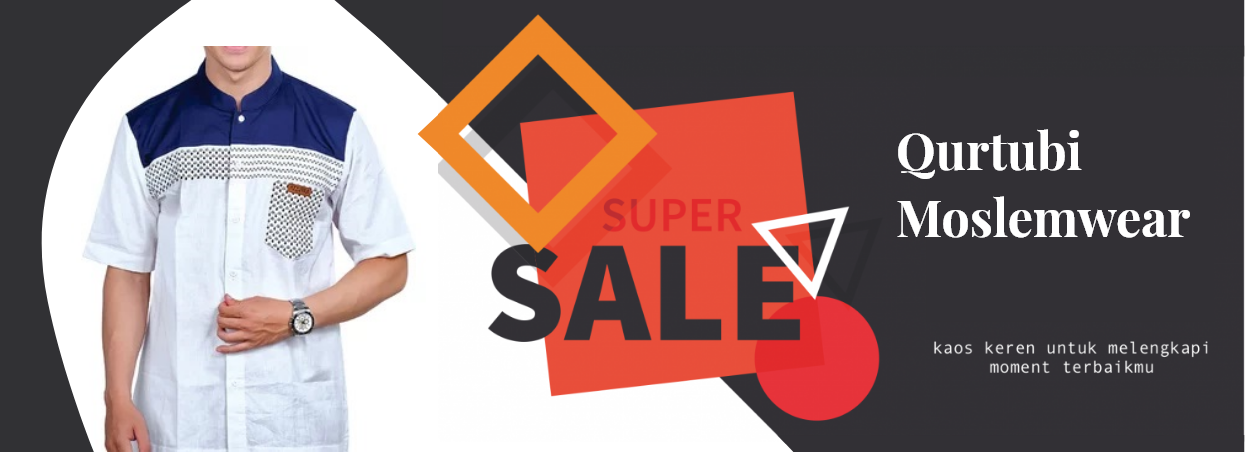
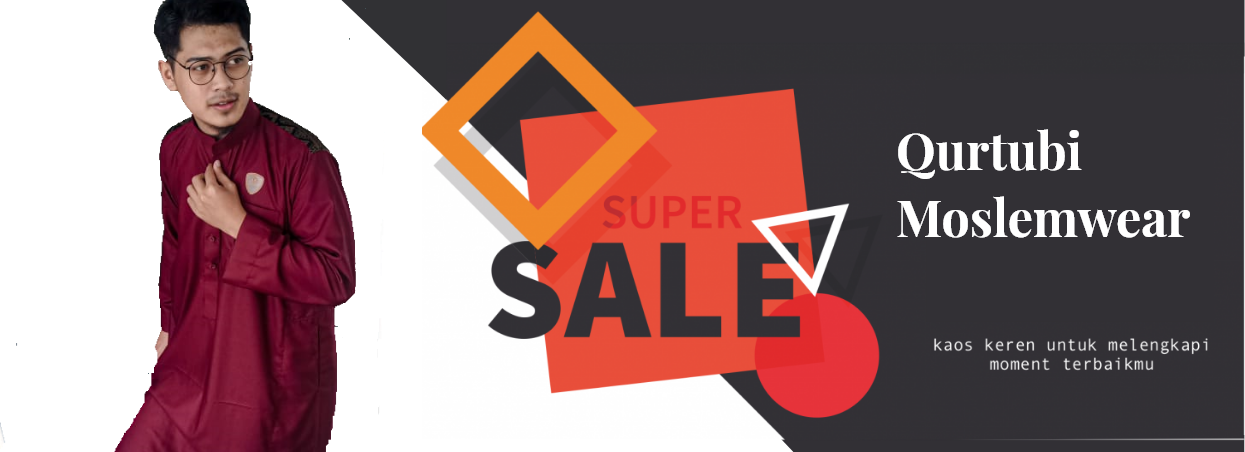
Sec

diff --git a/index.html b/index.html
@@ -40,9 +40,9 @@
         <div class="swiper-container">
             <div class="swiper-wrapper">
               <div class="swiper-slide"> <img src="images/banner@2x.png" alt="" srcset=""> </div>
-              <div class="swiper-slide"> <img src="images/BannerKurta@2x.png" alt="" srcset=""> </div>
+              <div class="swiper-slide"> <img src="images/banner – 2@2x.png" alt="" srcset=""> </div>
               <div class="swiper-slide"> <img src="images/BannerSirwal@2x.png" alt="" srcset=""> </div>
-              <div class="swiper-slide"> <img src="images/BannerKurta@2x.png" alt="" srcset=""> </div>
+              <div class="swiper-slide"> <img src="images/banner – 2@2x.png" alt="" srcset=""> </div>
             </div>
             
             <!-- <div class="swiper-button-next"></div>
@@ -96,15 +96,6 @@
               <div class="seeproduct"> <button class="btn btn-outline-light">Lihat produk</button> </div>
             </div>
             <div class="grid-item item2" data-aos="fade-up" data-aos-delay="600">
-              <div class="seeproduct"> <button class="btn btn-outline-light">Lihat produk</button> </div>
-            </div>
-            <div class="grid-item item3" data-aos="fade-up" data-aos-delay="900">
-              <div class="seeproduct"> <button class="btn btn-outline-light">Lihat produk</button> </div>
-            </div>
-            <div class="grid-item item4" data-aos="fade-up" data-aos-delay="1200">
-              <div class="seeproduct"> <button class="btn btn-outline-light">Lihat produk</button> </div>
-            </div>
-            <div class="grid-item item5" data-aos="fade-up" data-aos-delay="1500">
               <div class="seeproduct"> <button class="btn btn-outline-light">Lihat produk</button> </div>
             </div>
           </div> 

diff --git a/main.css b/main.css
@@ -122,7 +122,7 @@ body {
     text-align: center;
 }
 
-.grid-item:nth-of-type(even) {
+.grid-item {
     background-image: url('images/SirwalCard@2x.png');
     background-size: cover;
     border-radius: 10px;
@@ -131,8 +131,17 @@ body {
     -ms-border-radius: 10px;
     -o-border-radius: 10px;
 }
-.grid-item:nth-of-type(odd) {
+.grid-item:nth-child(1) {
     background-image: url('images/KurtaCard@2x.png');
+    background-size: cover;
+    border-radius: 10px;
+    -webkit-border-radius: 10px;
+    -moz-border-radius: 10px;
+    -ms-border-radius: 10px;
+    -o-border-radius: 10px;
+}
+.grid-item:nth-child(2) {
+    background-image: url('images/JubbaCard@2x.png');
     background-size: cover;
     border-radius: 10px;
     -webkit-border-radius: 10px;
